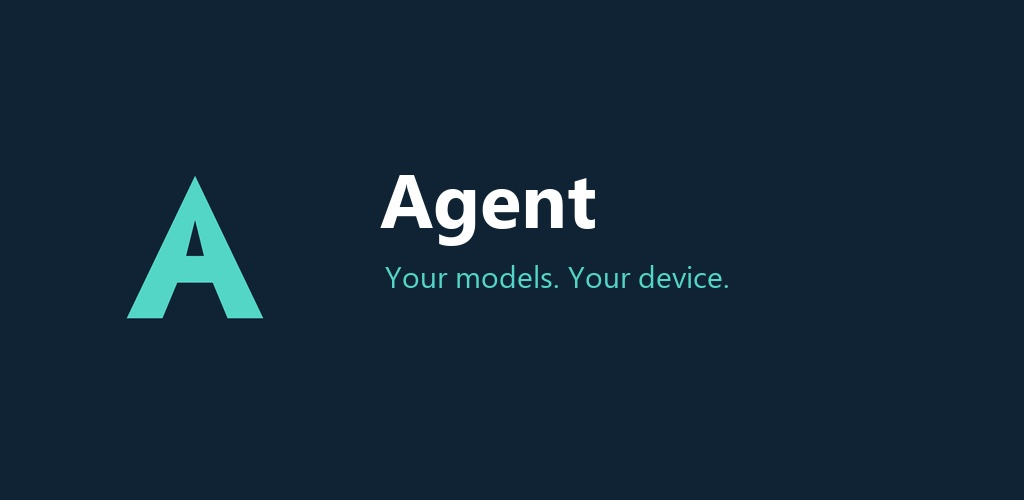
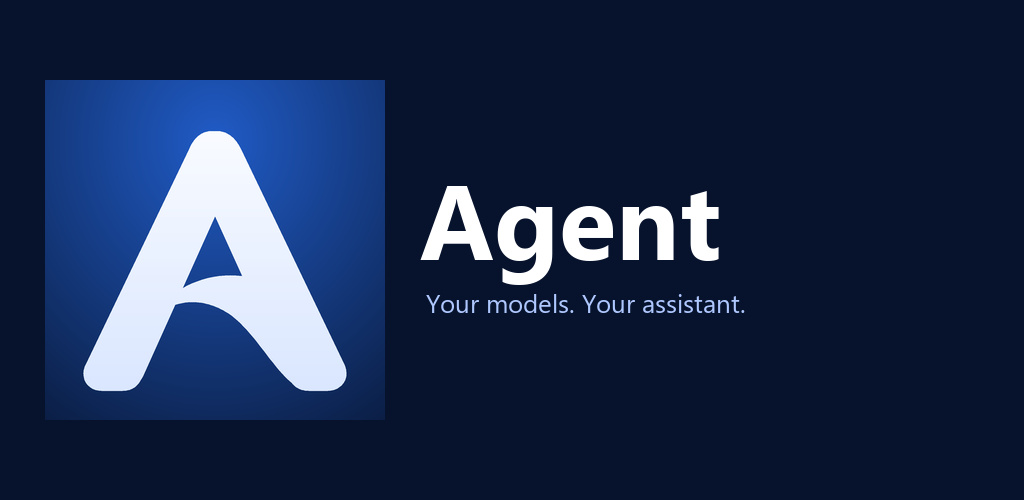
release(android): prepare Agent v158 branding and exact runtime evidence policy

Changed region(s): [[0.0312, 0.15, 0.7188, 0.84]]

diff --git a/android/app/src/androidTest/java/com/mobilefork/hermesagent/ReleaseDeviceEvidenceIdentity.kt b/android/app/src/androidTest/java/com/mobilefork/hermesagent/ReleaseDeviceEvidenceIdentity.kt
@@ -141,5 +141,5 @@ internal object ReleaseDeviceEvidenceIdentity {
     private const val ARG_EVIDENCE_RUN_ID = "evidence_run_id"
     private const val ARG_DEVICE_SERIAL = "device_serial"
     private const val ARG_AVD_NAME = "avd_name"
-    private const val LITERTLM_COORDINATE = "com.google.ai.edge.litertlm:litertlm-android:0.17.0"
+    private const val LITERTLM_COORDINATE = "com.google.ai.edge.litertlm:litertlm-android:0.17.1"
 }

diff --git a/tests/hermes_android/test_android_release_v158.py b/tests/hermes_android/test_android_release_v158.py
@@ -1,0 +1,28 @@
+from dataclasses import replace
+
+import pytest
+
+from scripts import android_release_evidence_policy as policy
+from tests.hermes_android import test_android_performance_collector as fixtures
+
+
+def test_release_coordinate_keeps_historical_contracts_and_binds_v158_to_its_runtime():
+    prefix = "com.google.ai.edge.litertlm:litertlm-android:"
+    for tag, sdk in (("v0.13.147", "0.16.0"), ("v0.13.148", "0.16.1"),
+                     ("v0.13.153", "0.16.1"), ("v0.13.154", "0.17.0"),
+                     ("v0.13.157", "0.17.0"), ("v0.13.158", "0.17.1")):
+        assert policy.required_litertlm_coordinate(tag) == prefix + sdk
+    with pytest.raises(policy.EvidenceError):
+        policy.required_litertlm_coordinate("latest")
+
+
+def test_collector_rejects_stale_runtime_coordinate_without_invalidating_older_evidence(tmp_path):
+    fixtures._load_module("android_release_evidence", "scripts/android_release_evidence.py")
+    collector = fixtures._load_module("android_collect_performance_evidence", "scripts/android_collect_performance_evidence.py")
+    old = fixtures._config(collector, tmp_path)
+    old.validate()
+    current = replace(old, version_name="0.13.158", version_code=145890,
+                      litertlm_coordinate="com.google.ai.edge.litertlm:litertlm-android:0.17.1")
+    current.validate()
+    with pytest.raises(collector.CollectorError, match="release dependency"):
+        replace(current, litertlm_coordinate=old.litertlm_coordinate).validate()

diff --git a/scripts/android_collect_performance_evidence.py b/scripts/android_collect_performance_evidence.py
@@ -28,6 +28,11 @@ from dataclasses import dataclass
 from pathlib import Path
 from typing import Any, Mapping, Protocol, Sequence
 
+try:
+    import android_release_evidence_policy as release_policy
+except ModuleNotFoundError:
+    from scripts import android_release_evidence_policy as release_policy
+
 
 PERFORMANCE_SCHEMA = "hermes-android-performance-evidence-v2"
 RAW_PERFORMANCE_SCHEMA = "hermes-android-performance-host-raw-v2"
@@ -313,9 +318,10 @@ class CollectorConfig:
             raise CollectorError("version_name must be a nonblank token")
         if isinstance(self.version_code, bool) or self.version_code <= 0:
             raise CollectorError("version_code must be a positive integer")
-        if self.litertlm_coordinate != LITERTLM_COORDINATE:
+        expected_coordinate = release_policy.required_litertlm_coordinate(f"v{self.version_name}")
+        if self.litertlm_coordinate != expected_coordinate:
             raise CollectorError(
-                f"litertlm_coordinate must equal the release dependency {LITERTLM_COORDINATE}"
+                f"litertlm_coordinate must equal the release dependency {expected_coordinate}"
             )
         if not self.adb.strip() or not self.emulator.strip():
             raise CollectorError("adb and emulator executable inputs must be nonblank")

diff --git a/scripts/android_release_evidence_policy.py b/scripts/android_release_evidence_policy.py
@@ -18,6 +18,24 @@ OPTIONAL_PHYSICAL_VERSION = (0, 13, 158)
 POLICY_TAG_RE = re.compile(r"v(\d+)\.(\d+)\.(\d+)(?:-(?:alpha|beta|rc)(?:\.\d+)?)?")
 
 
+
+def required_litertlm_coordinate(tag: str) -> str:
+    """Preserve historical evidence while binding v158+ to its actual runtime."""
+    match = POLICY_TAG_RE.fullmatch(tag.strip())
+    if match is None:
+        raise EvidenceError(f"Invalid Android release policy tag: {tag!r}")
+    version = tuple(int(part) for part in match.groups())
+    for minimum, sdk in (
+        ((0, 13, 158), "0.17.1"),
+        ((0, 13, 154), "0.17.0"),
+        ((0, 13, 148), "0.16.1"),
+        ((0, 0, 0), "0.16.0"),
+    ):
+        if version >= minimum:
+            return f"com.google.ai.edge.litertlm:litertlm-android:{sdk}"
+    raise EvidenceError(f"Unsupported Android release version: {tag!r}")
+
+
 def physical_validation_waiver(tag: str) -> dict[str, Any] | None:
     """Preserve historical waivers and apply the owner's standing future policy."""
     normalized_tag = tag.strip()

diff --git a/scripts/android_release_evidence.py b/scripts/android_release_evidence.py
@@ -667,13 +667,8 @@ def requires_physical_nanbeige_repair_evidence(tag: str) -> bool:
 
 
 def litertlm_coordinate_for_tag(tag: str) -> str:
-    """Return the release dependency required by the tag's immutable evidence contract."""
-
-    if _tag_version_tuple(tag) >= LITERTLM_0170_MIN_VERSION:
-        return LITERTLM_COORDINATE
-    if _tag_version_tuple(tag) >= LITERTLM_0161_MIN_VERSION:
-        return LITERTLM_0161_COORDINATE
-    return LEGACY_LITERTLM_COORDINATE
+    """Return the dependency required by the tag's immutable evidence contract."""
+    return release_policy.required_litertlm_coordinate(tag)
 
 
 def manifest_schema_for_tag(tag: str) -> str:

diff --git a/scripts/android_fdroid_source_binding.py b/scripts/android_fdroid_source_binding.py
@@ -48,8 +48,8 @@ if str(SCRIPT_DIR) not in sys.path:
 
 BINDING_SCHEMA = "hermes-android-fdroid-source-binding-v1"
 BINDING_FILE_NAME = "hermes-android-fdroid-source-binding.properties"
-AUTUPDATE_VERSION_NAME = "0.13.157"
-AUTUPDATE_VERSION_CODE = "145790"
+AUTUPDATE_VERSION_NAME = "0.13.158"
+AUTUPDATE_VERSION_CODE = "145890"
 EXPECTED_REMOTE_REPOSITORY = "https://github.com/adybag14-cyber/hermes-agent.git"
 GRADLE_PATH = PurePosixPath("android/app/build.gradle.kts")
 SOURCE_DIGEST_EXCLUDED_PREFIX = PurePosixPath("android/release-evidence")

diff --git a/RELEASE_v0.13.158.md b/RELEASE_v0.13.158.md
@@ -1,0 +1,22 @@
+# Agent v0.13.158
+
+Agent is the independent Android app name. This release refreshes the A store icon,
+puts model selection and offline file import first, and groups downloads, online
+providers, response settings and advanced runtime controls separately.
+
+Local model imports preserve the original file, reject duplicate concurrent imports,
+and clean up interrupted copies. Accessibility labels, saved-state restoration and
+large-text layouts have been strengthened. LiteRT-LM Android is 0.17.1.
+
+The application ID and historical download filename pattern remain compatible with
+existing installations and F-Droid's Binaries URL. They are technical identifiers,
+not the displayed product name. Full and Play are separate distributions.
+
+Store artwork and localized text are supplied through the standard Fastlane paths.
+F-Droid collects them from a built tagged release; central repository processing is
+separate from GitHub publication. Its current explicit Name override requires a
+maintainer adjustment before the central listing title can inherit Agent.
+
+Physical-device validation is optional and was not performed. Release status and
+accepted source-bound evidence are recorded separately; these notes do not claim
+publication before the release workflow succeeds.

diff --git a/fdroid/LOCAL_TOOLCHAIN.md b/fdroid/LOCAL_TOOLCHAIN.md
@@ -25,10 +25,10 @@ cd ~/fdroiddata-hermes
 ```
 
 Run that preview from a fresh clone of the live `fdroiddata` metadata after the
-GitHub tag exists. `--auto` must create the local 0.13.157/145790 build recipe
+GitHub tag exists. `--auto` must create the local 0.13.158/145890 build recipe
 and resolve its exact tag commit. The autoupdater copies the prior build recipe,
 so its output is not yet eligible for the pinned build. From the same WSL shell,
-render and verify the v0.13.157 source-binding fields from the committed Hermes
+render and verify the v0.13.158 source-binding fields from the committed Hermes
 template into that generated build:
 
 ```sh
@@ -46,7 +46,7 @@ git -C "$FDROIDDATA_ROOT" diff -- \
   metadata/com.mobilefork.hermesagent.yml
 ```
 
-The render transaction requires exactly one 0.13.157/145790 build, preserves
+The render transaction requires exactly one 0.13.158/145890 build, preserves
 the autoupdater-resolved full Git commit, every historical `Builds` entry, and
 all unrelated live metadata, and overlays the exact `sudo`, `ndk`, `gradle`,
 `gradleprops`, `scanignore`, and `prebuild` fields. It then verifies that
